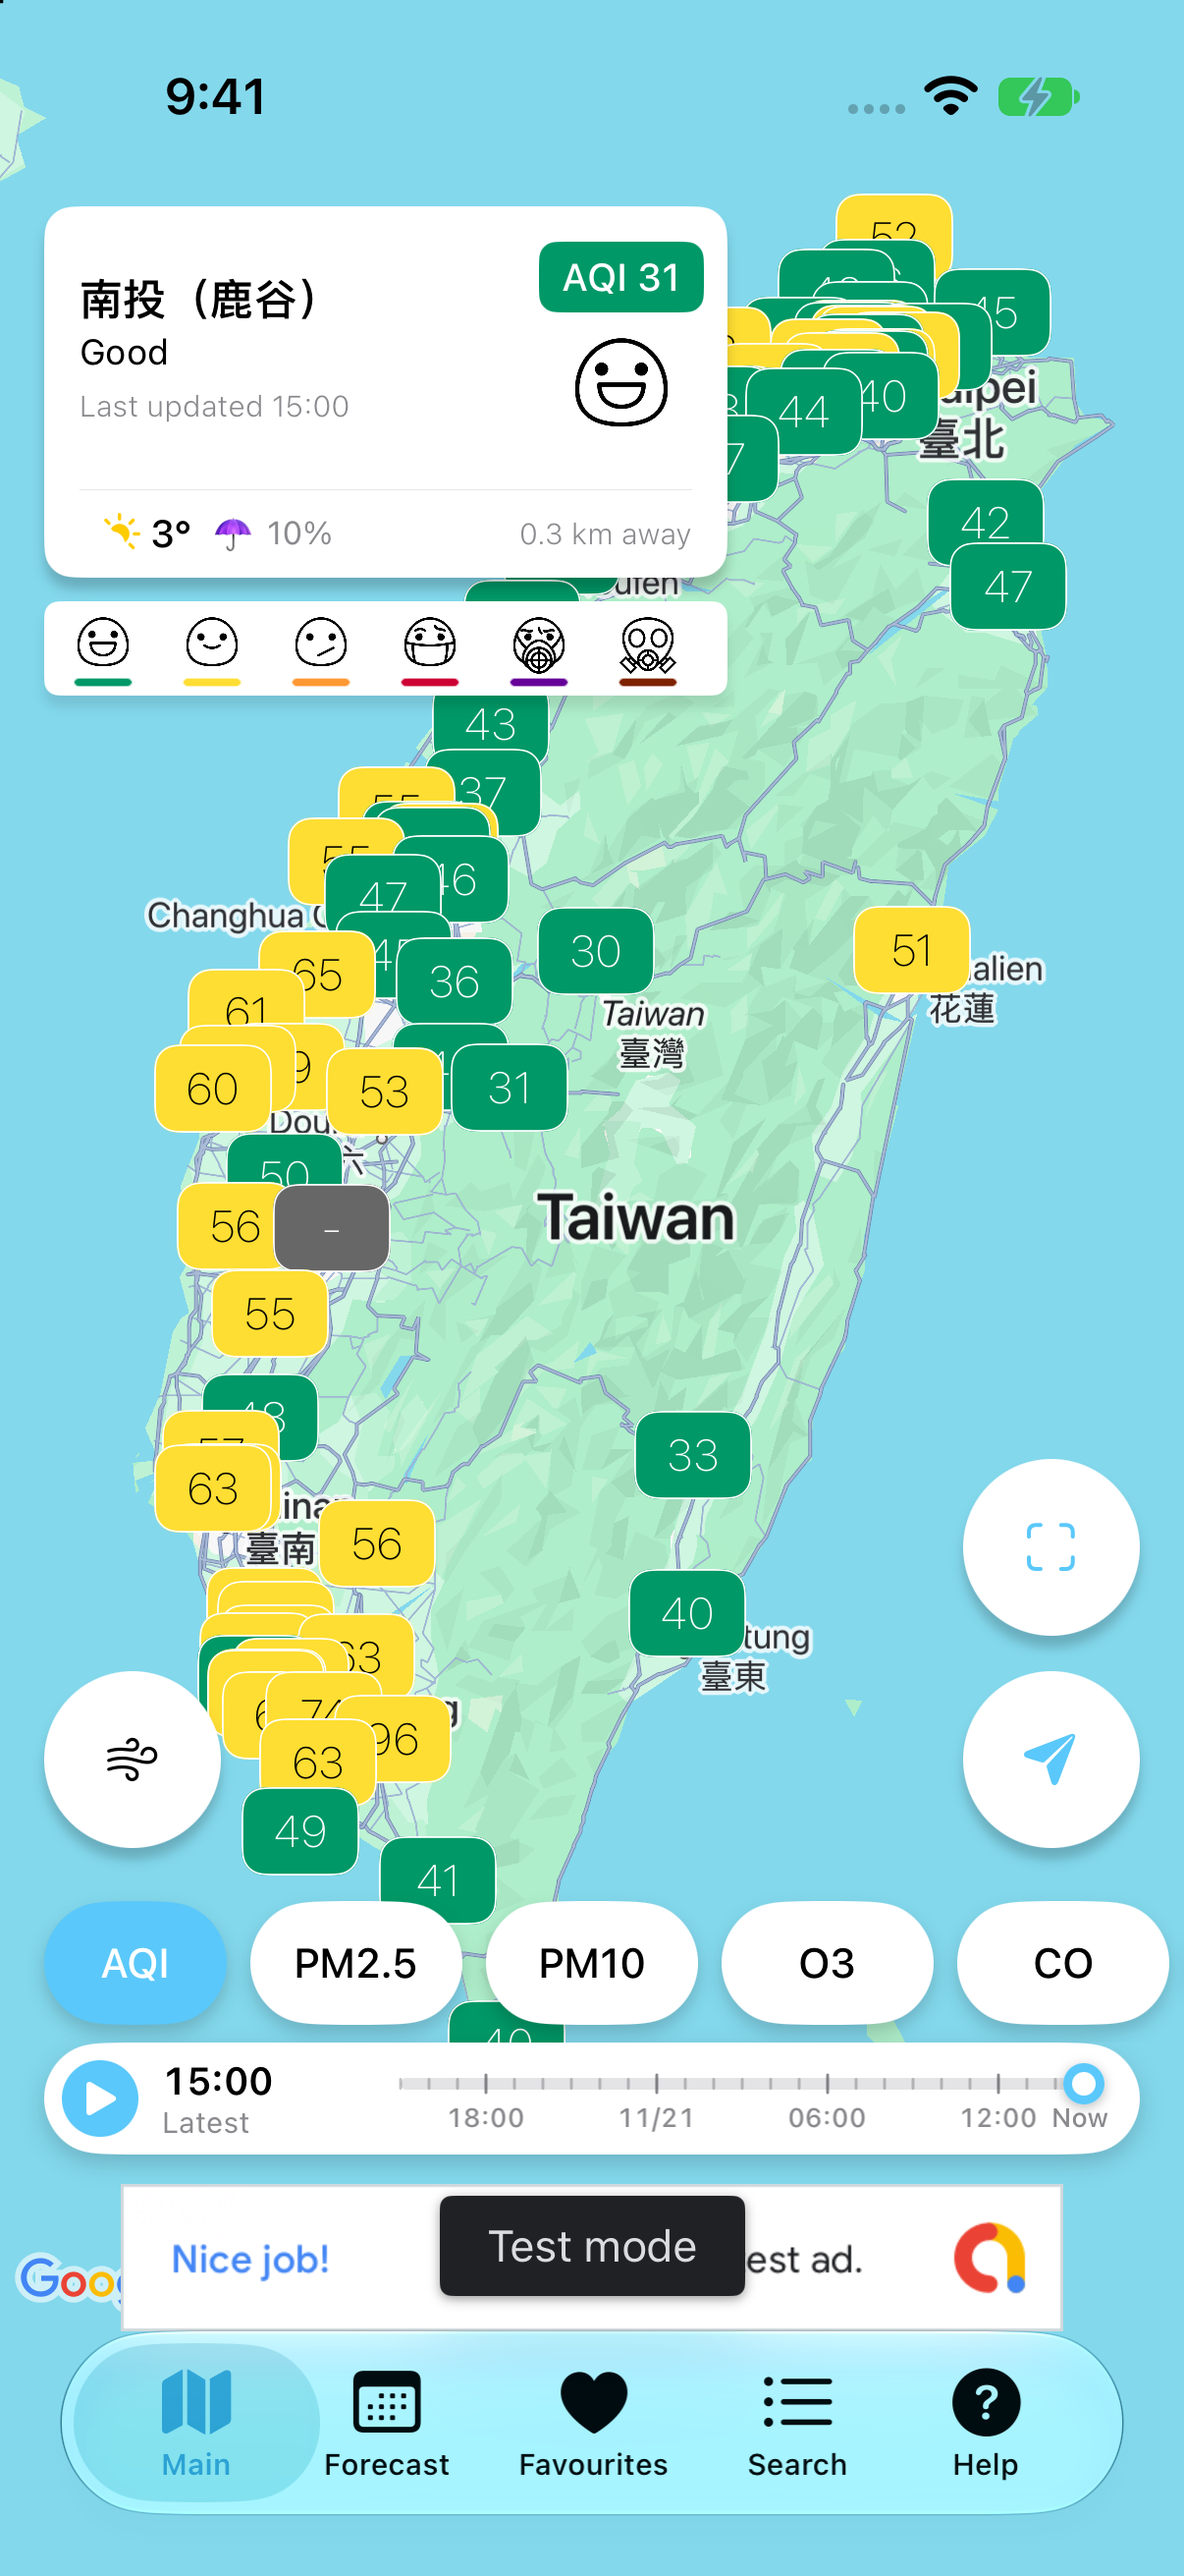
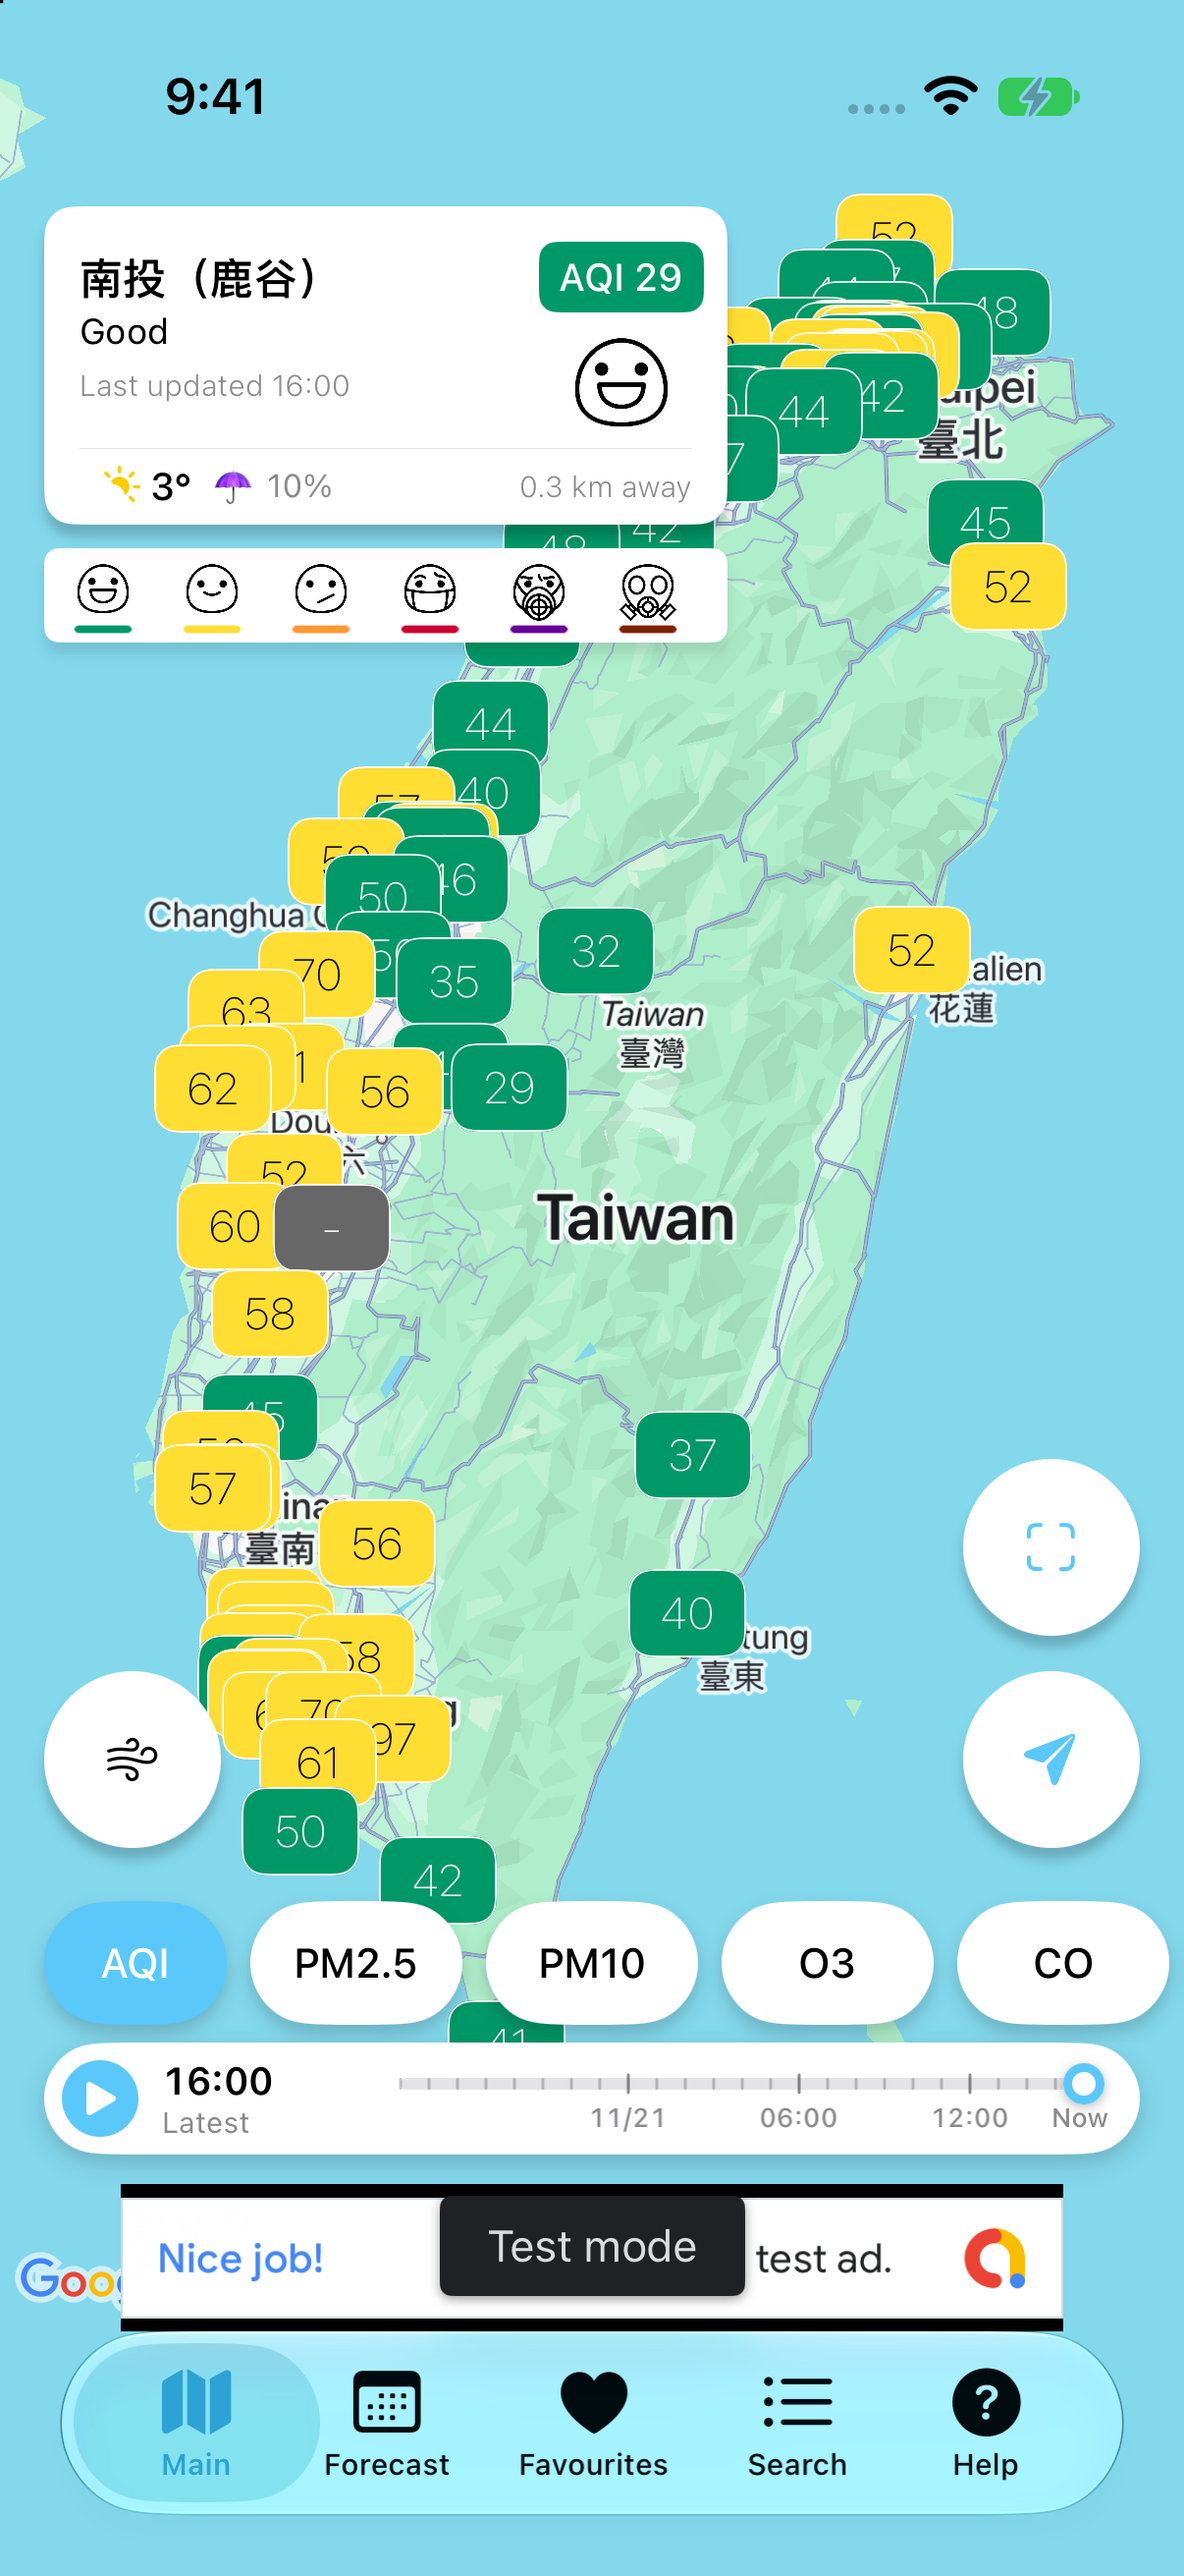
TWAQ-6: Tighter spacing between the AQI and the weather row

diff --git a/ios/TWAQI/Views/Main/ClosestStationView.swift b/ios/TWAQI/Views/Main/ClosestStationView.swift
@@ -16,7 +16,13 @@ import UIKit
 final class ClosestStationView: UIView {
     static let preferredSize = CGSize(width: 232, height: 96)
     /// Extra height while the weather row (TWAQ-6) is shown under the station.
-    static let weatherRowHeight: CGFloat = 30
+    static let weatherRowHeight: CGFloat = 26
+    /// The station and AQI area is tighter while the row is shown, so the
+    /// card grows by less than the row (pill 12 + 24, face 8 + 36 fit in it).
+    static let topHeightWithWeather: CGFloat = 82
+    static var heightWithWeather: CGFloat { topHeightWithWeather + weatherRowHeight }
+
+    private var topHeight: Constraint?
 
     private var weatherRow: UIView!
     private var weatherIcon: UIImageView!
@@ -125,6 +131,7 @@ final class ClosestStationView: UIView {
     }
 
     private func updateWeatherRow() {
+        topHeight?.update(offset: weather == nil ? Self.preferredSize.height : Self.topHeightWithWeather)
         guard let weather else {
             weatherRow.isHidden = true
             weatherRow.accessibilityLabel = nil
@@ -205,7 +212,7 @@ final class ClosestStationView: UIView {
         addSubview(rightView)
         rightView.snp.makeConstraints { (make) -> Void in
             make.top.right.equalTo(self)
-            make.height.equalTo(Self.preferredSize.height)
+            topHeight = make.height.equalTo(Self.preferredSize.height).constraint
             make.width.equalTo(72)
         }
 

diff --git a/ios/TWAQI/Views/Main/GoogleMapController.swift b/ios/TWAQI/Views/Main/GoogleMapController.swift
@@ -702,8 +702,9 @@ class GoogleMapViewController: UIViewController, GMSMapViewDelegate {
     private func showCenterWeather(_ weather: MapCenterWeather?) {
         guard weather != closestStationView.weather else { return }
         closestStationView.weather = weather
-        let height = ClosestStationView.preferredSize.height
-            + (weather == nil ? 0 : ClosestStationView.weatherRowHeight)
+        let height = weather == nil
+            ? ClosestStationView.preferredSize.height
+            : ClosestStationView.heightWithWeather
         closestStationHeight?.update(offset: height)
         view.layoutIfNeeded()
     }
